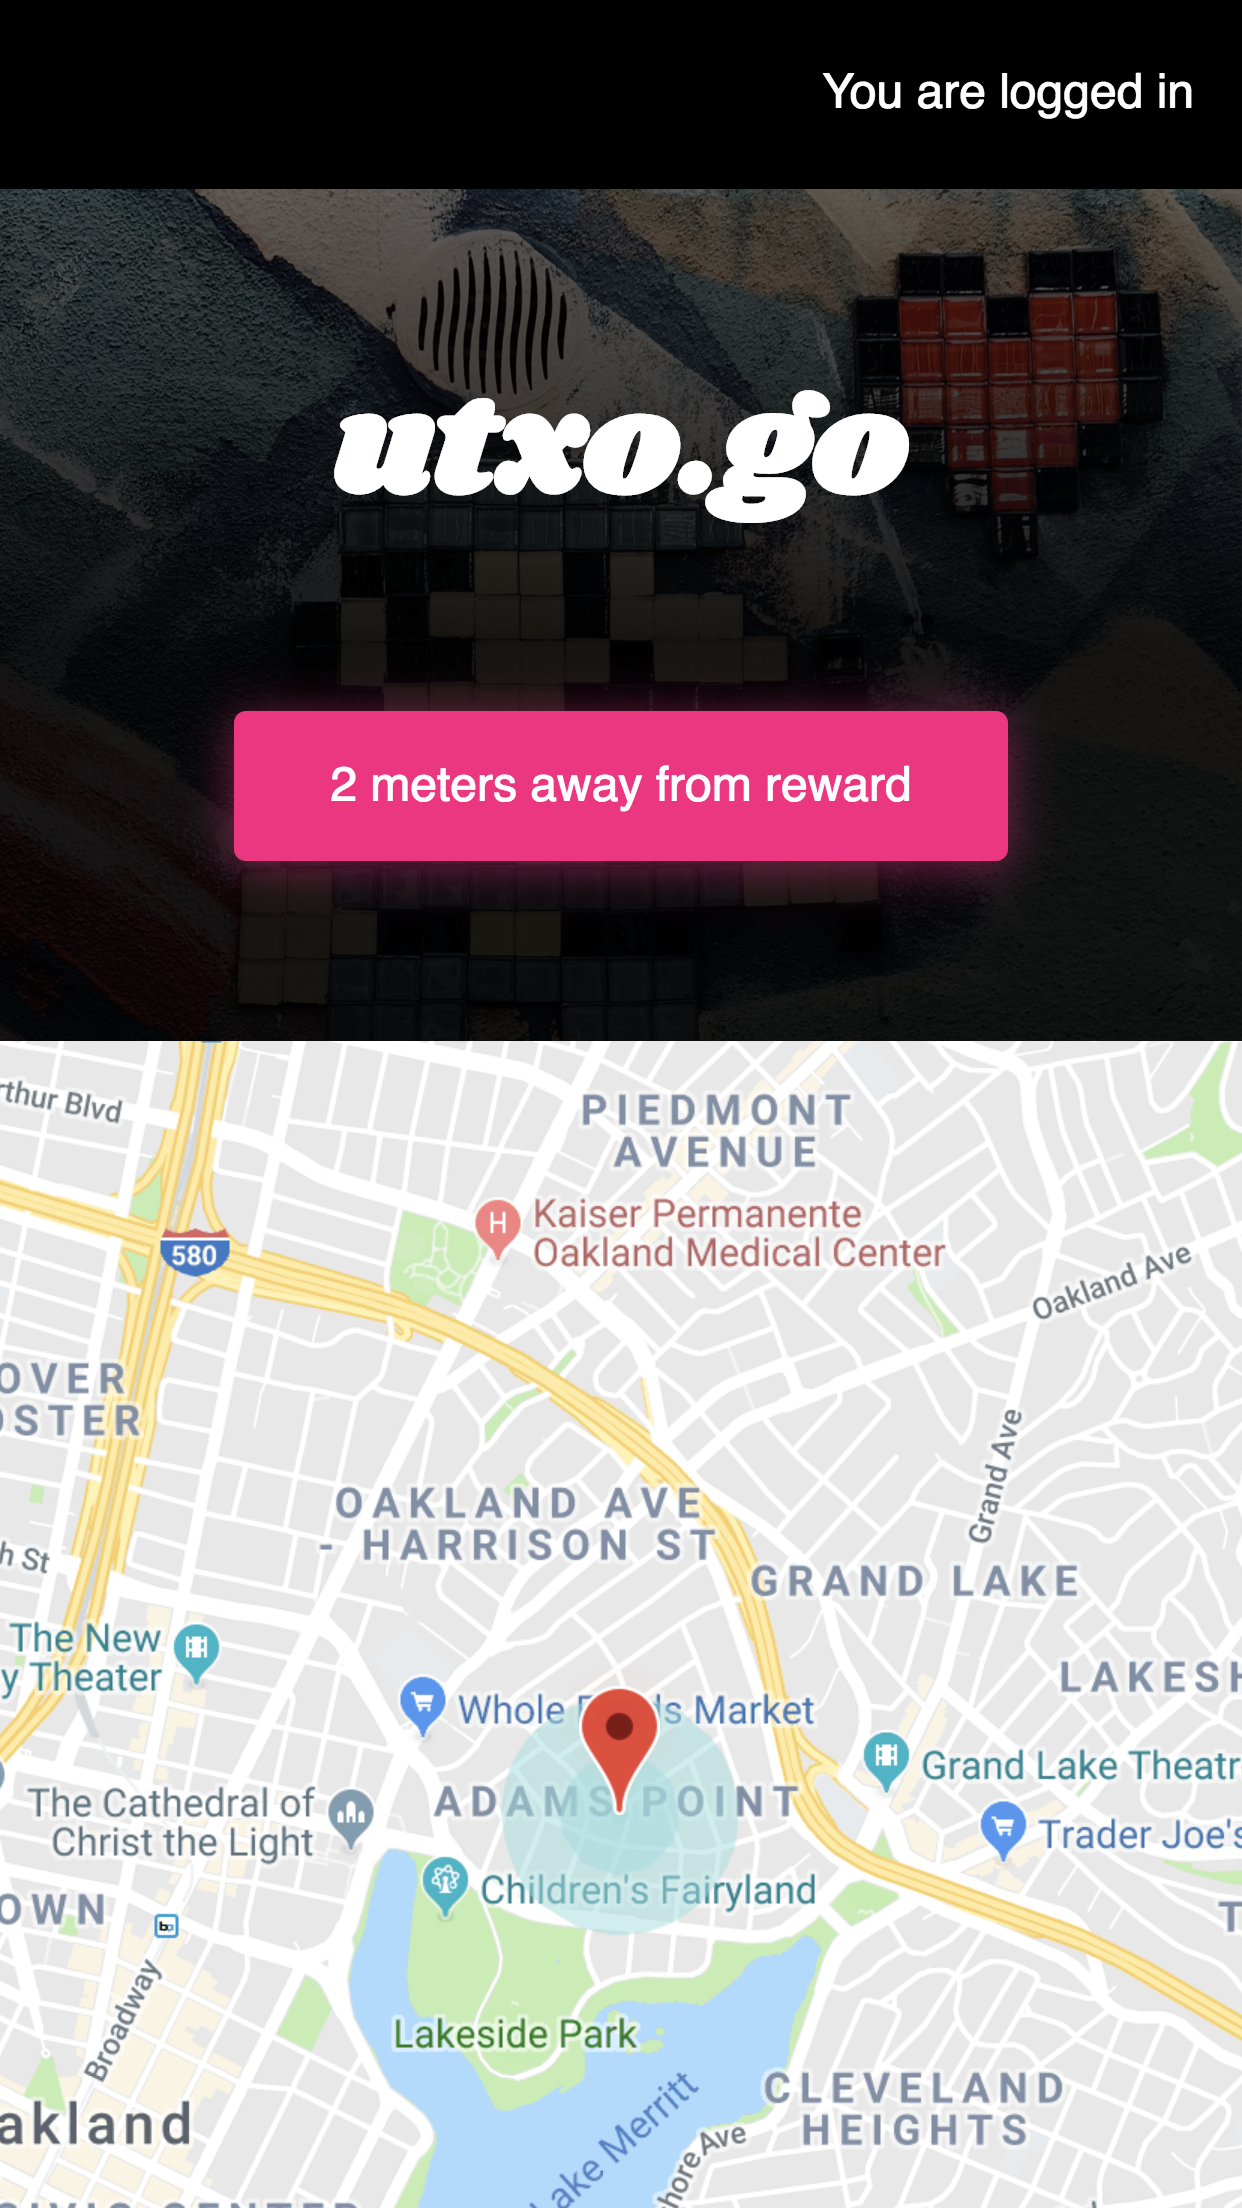
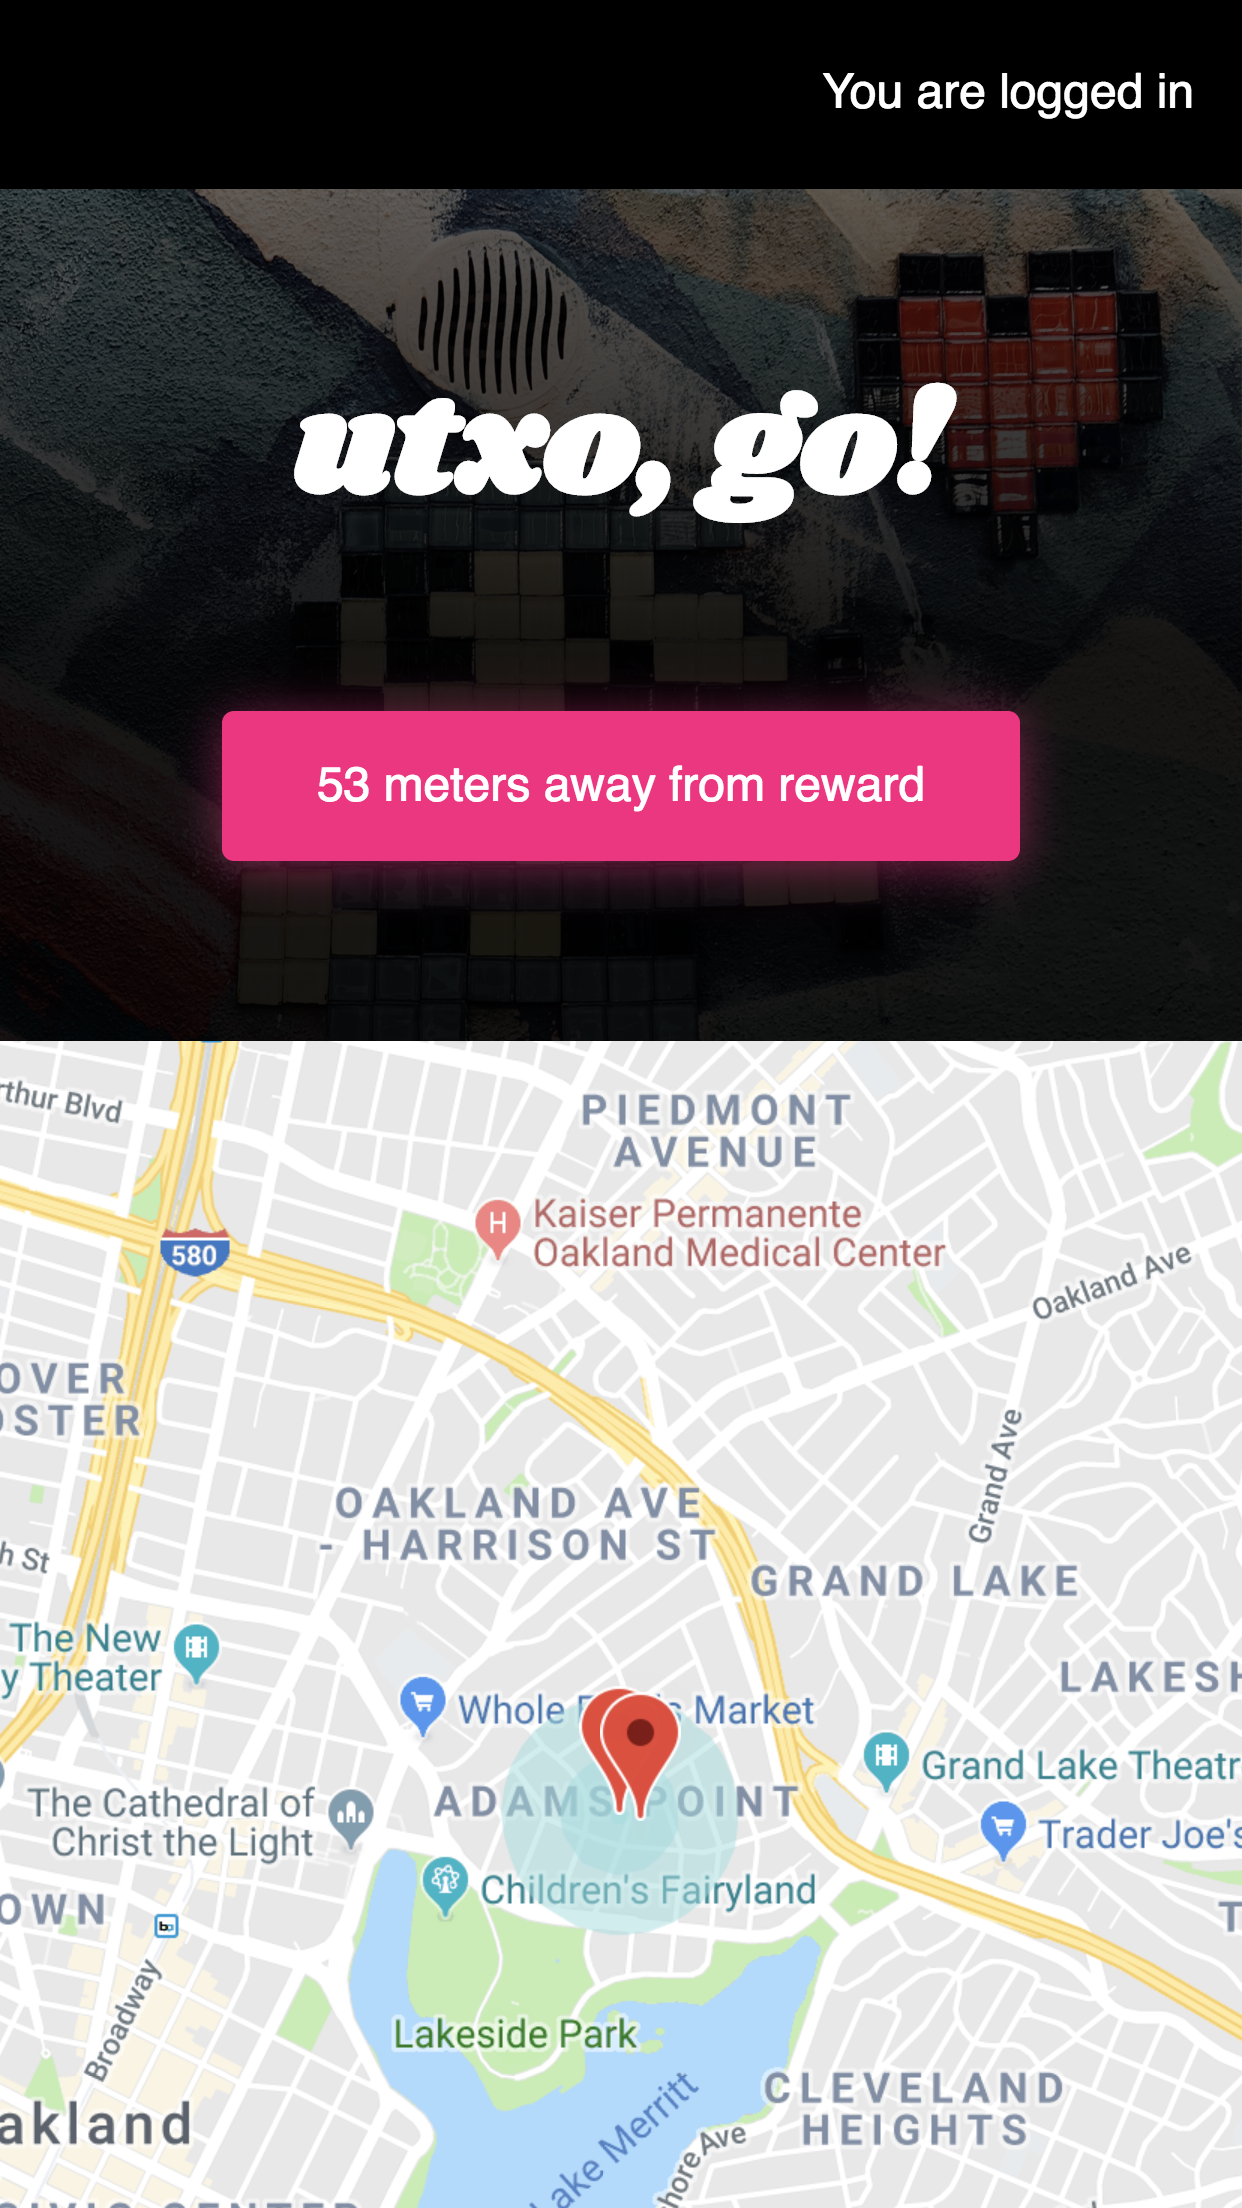
change name from "utxo.go" to "utxo, go!"

diff --git a/index.html b/index.html
@@ -8,7 +8,7 @@
     <meta name="description" content="">
     <meta name="author" content="">
 
-    <title>utxo.go</title>
+    <title>utxo, go!</title>
 
     <!-- Bootstrap core CSS -->
     <link href="vendor/bootstrap/css/bootstrap.min.css" rel="stylesheet">
@@ -36,7 +36,7 @@
     <!-- Navigation -->
     <nav class="navbar navbar-expand-lg navbar-light fixed-top" id="mainNav">
       <div class="container">
-        <a class="navbar-brand js-scroll-trigger" href="#page-top" style="font-family: Shrikhand;">utxo.go</a>
+        <a class="navbar-brand js-scroll-trigger" href="#page-top" style="font-family: Shrikhand;">utxo, go!</a>
         <button class="navbar-toggler navbar-toggler-right" type="button" data-toggle="collapse" data-target="#navbarResponsive" aria-controls="navbarResponsive" aria-expanded="false" aria-label="Toggle navigation">
           <i class="fa fa-bars"></i>
         </button>
